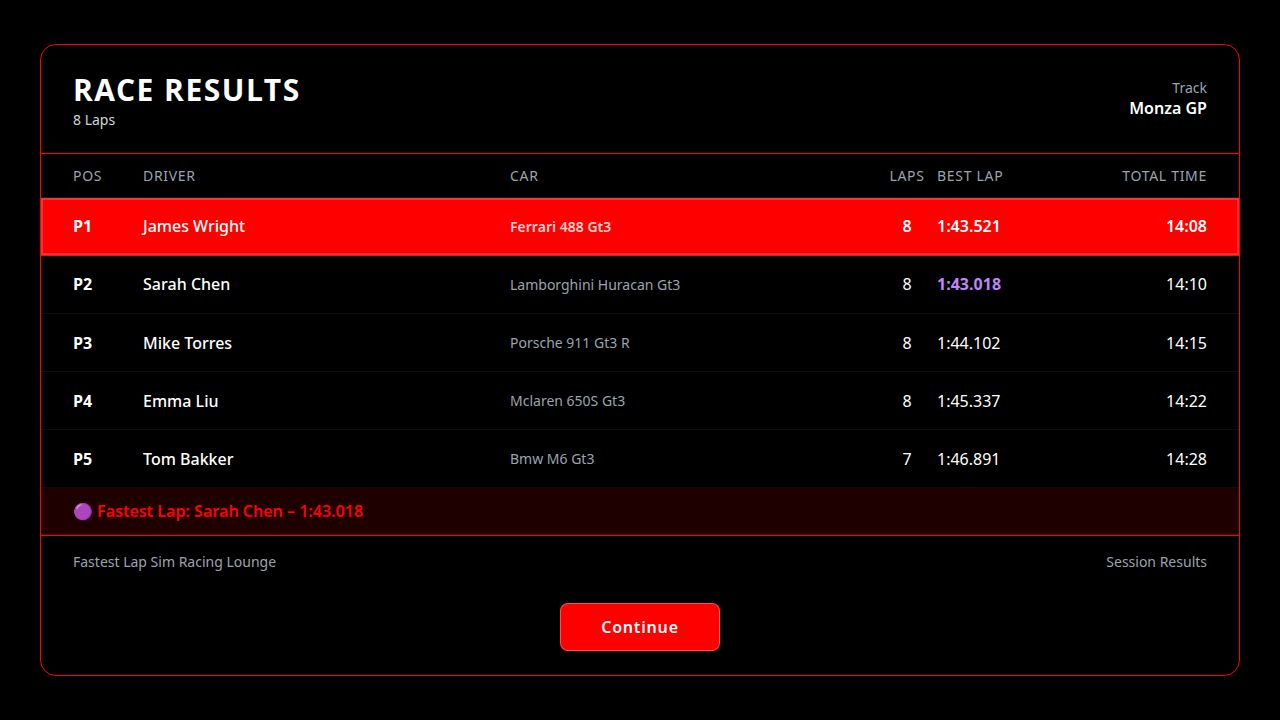
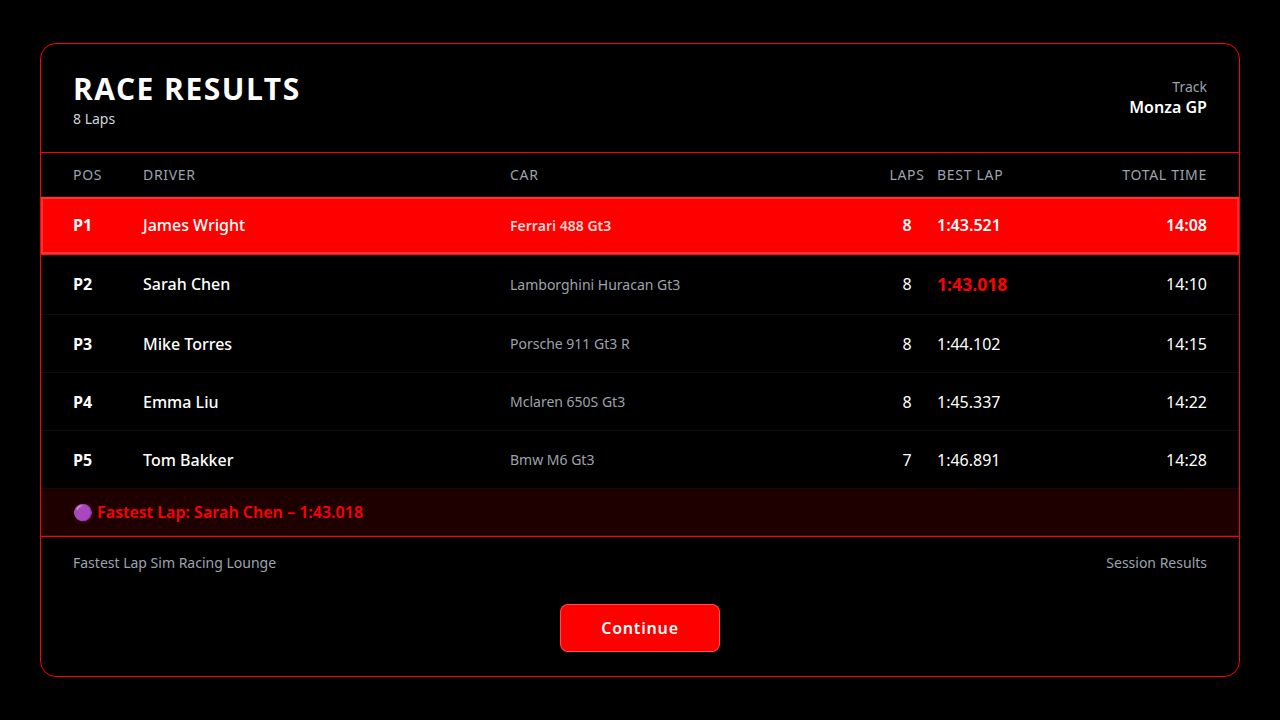
Make the fastest lap time red and slightly larger
Update sim.html to change the fastest lap time color to red (#FF0000) and increase its font size by 1.1em, with corresponding text-shadow adjustments.

Replit-Commit-Author: Agent
Replit-Commit-Session-Id: 5224433c-1af1-494f-ba8a-896445ec7928
Replit-Commit-Checkpoint-Type: full_checkpoint
Replit-Commit-Event-Id: 42d1b07e-15a2-4403-bff1-a3f67a7350fa
Replit-Commit-Screenshot-Url: https://storage.googleapis.com/screenshot-production-us-central1/361f08f0-77af-4c86-bf00-a97db21ca46f/5224433c-1af1-494f-ba8a-896445ec7928/RYYyV6z
Replit-Helium-Checkpoint-Created: true

diff --git a/controller/static/sim.html b/controller/static/sim.html
@@ -389,12 +389,14 @@
             box-shadow: inset 0 0 0 2px rgba(255,255,255,0.2);
         }
         .results-table-row.fastest-lap-row .col-lap {
-            color: #c084fc; /* purple-400 */
+            color: #FF0000;
             font-weight: 700;
+            font-size: 1.1em;
         }
         .results-table-row.p1.fastest-lap-row .col-lap {
             color: #ffffff;
-            text-shadow: 0 0 8px rgba(192,132,252,0.8);
+            font-size: 1.1em;
+            text-shadow: 0 0 8px rgba(255,0,0,0.7);
         }
         .results-table-row .col-car {
             color: #9CA3AF;
